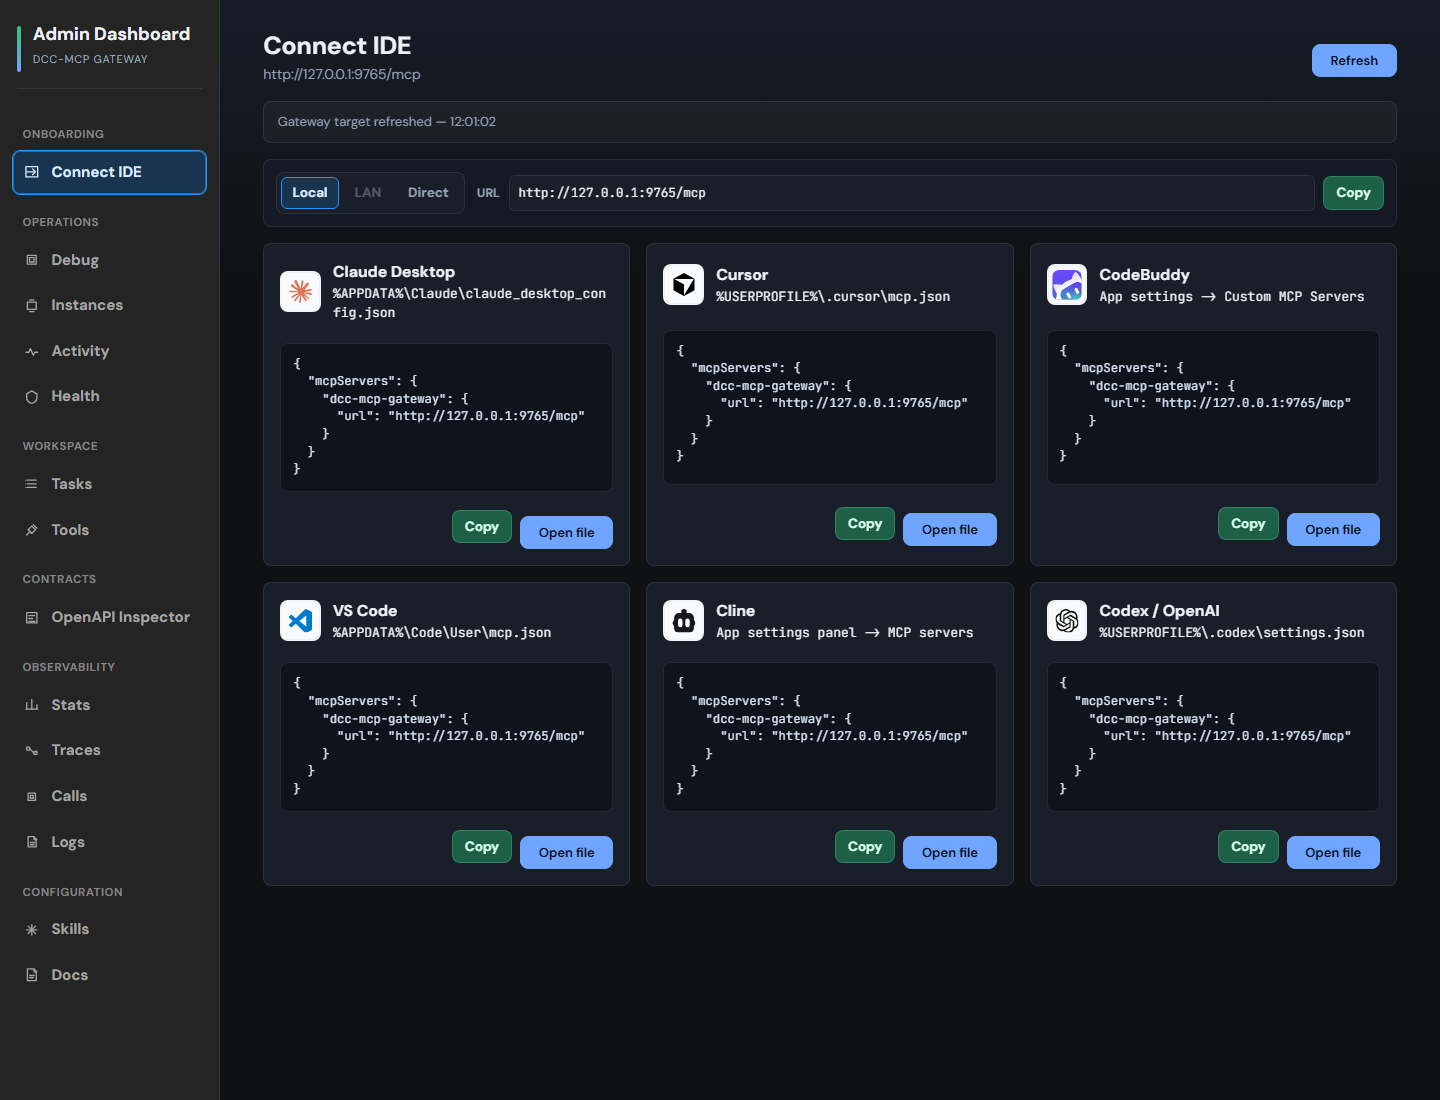
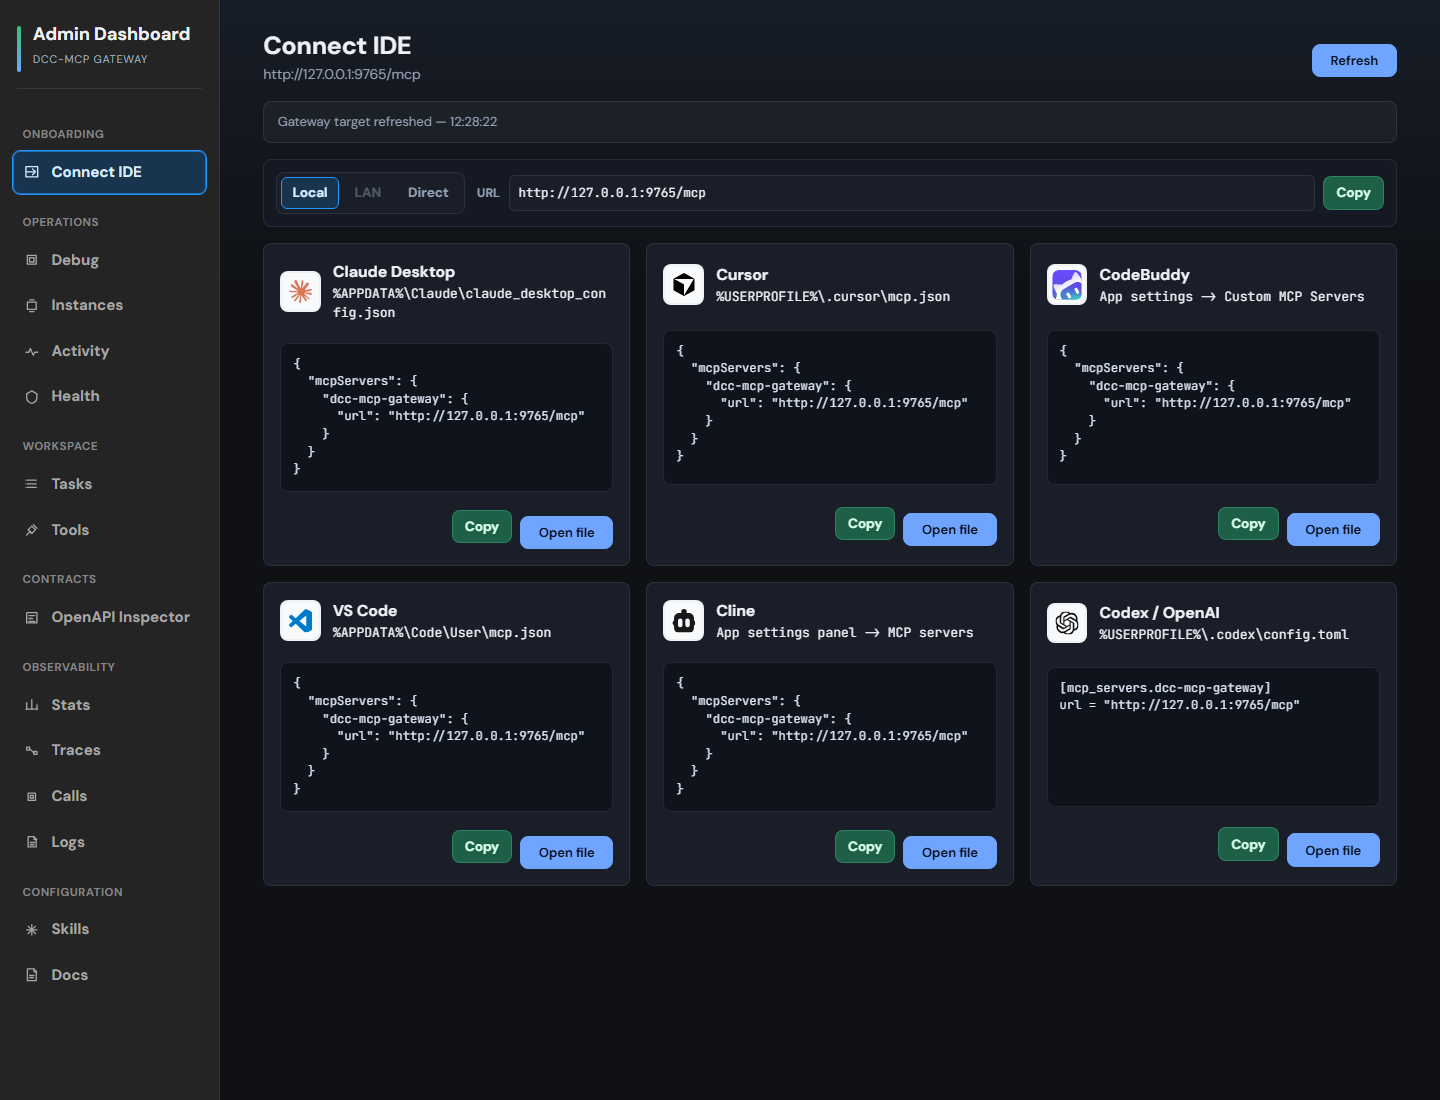
fix: align admin debug docs and codex setup

diff --git a/admin-ui/src/App.tsx b/admin-ui/src/App.tsx
@@ -379,7 +379,7 @@ type IdeTarget = {
   label: string;
   configPath: string | Record<ClientPlatform, string>;
   icon: string;
-  build: (url: string) => unknown;
+  build: (url: string) => string;
 };
 
 function normalizeLogRow(raw: unknown): LogRow {
@@ -552,11 +552,16 @@ const ADMIN_FETCH_TIMEOUT_MS = 25_000;
 const DEFAULT_LOCAL_GATEWAY_PORT = '9765';
 const OPENAPI_METHODS = new Set(['get', 'put', 'post', 'delete', 'patch', 'options', 'head', 'trace']);
 const IDE_SERVER_NAME = 'dcc-mcp-gateway';
-const buildMcpServersConfig = (url: string) => ({
+const buildMcpServersConfig = (url: string) => JSON.stringify({
   mcpServers: {
     [IDE_SERVER_NAME]: { url },
   },
-});
+}, null, 2);
+const tomlString = (value: string) => JSON.stringify(value);
+const buildCodexConfig = (url: string) => [
+  `[mcp_servers.${IDE_SERVER_NAME}]`,
+  `url = ${tomlString(url)}`,
+].join('\n');
 const IDE_TARGETS: IdeTarget[] = [
   {
     id: 'claude',
@@ -609,12 +614,12 @@ const IDE_TARGETS: IdeTarget[] = [
     id: 'codex',
     label: 'Codex / OpenAI',
     configPath: {
-      windows: '%USERPROFILE%\\.codex\\settings.json',
-      macos: '~/.codex/settings.json',
-      linux: '~/.codex/settings.json',
+      windows: '%USERPROFILE%\\.codex\\config.toml',
+      macos: '~/.codex/config.toml',
+      linux: '~/.codex/config.toml',
     },
     icon: openaiIcon,
-    build: buildMcpServersConfig,
+    build: buildCodexConfig,
   },
 ];
 const PANELS: { id: Panel; label: string; group: string }[] = [
@@ -871,7 +876,7 @@ function configPathForTarget(target: IdeTarget, platform: ClientPlatform): strin
 }
 
 function ideConfigText(target: IdeTarget, url: string): string {
-  return JSON.stringify(target.build(url), null, 2);
+  return target.build(url);
 }
 
 function configPathFileUrl(path: string): string | null {

diff --git a/admin-ui/tests/admin.spec.ts b/admin-ui/tests/admin.spec.ts
@@ -351,6 +351,10 @@ test.describe('Admin Page', () => {
     await expect(page.locator('.setup-panel')).not.toContainText('http://127.0.0.1:3721/mcp');
     await expect(page.locator('.setup-panel img.ide-icon')).toHaveCount(6);
     await expect(page.locator('.setup-panel .ide-config-preview').first()).toContainText('"dcc-mcp-gateway"');
+    const codexCard = page.locator('.setup-panel .ide-card').filter({ hasText: 'Codex / OpenAI' });
+    await expect(codexCard).toContainText('%USERPROFILE%\\.codex\\config.toml');
+    await expect(codexCard.locator('.ide-config-preview')).toContainText('[mcp_servers.dcc-mcp-gateway]');
+    await expect(codexCard.locator('.ide-config-preview')).toContainText('url = "http://127.0.0.1:9765/mcp"');
     await page.locator('.setup-panel .ide-card').first().getByRole('button', { name: 'Copy' }).click();
     await expect(page.locator('.setup-panel')).toContainText('Copied Claude Desktop config');
     await page.getByRole('button', { name: 'Direct' }).click();
@@ -381,7 +385,7 @@ test.describe('Admin Page', () => {
     await expect(setup).toContainText('~/Library/Application Support/Claude/claude_desktop_config.json');
     await expect(setup).toContainText('~/.cursor/mcp.json');
     await expect(setup).toContainText('~/Library/Application Support/Code/User/mcp.json');
-    await expect(setup).toContainText('~/.codex/settings.json');
+    await expect(setup).toContainText('~/.codex/config.toml');
     await expect(setup).not.toContainText('%APPDATA%\\Claude');
   });
 

diff --git a/crates/dcc-mcp-gateway/src/gateway/handlers/debug_openapi.rs b/crates/dcc-mcp-gateway/src/gateway/handlers/debug_openapi.rs
@@ -120,6 +120,12 @@ pub(crate) fn add_gateway_debug_openapi_paths(doc: &mut Value) {
             list_params.clone(),
         ),
         (
+            "/v1/debug/deregistered",
+            "List auto-deregistered instances",
+            "Recently auto-deregistered registry rows retained for forensic debugging.",
+            limit_params.clone(),
+        ),
+        (
             "/v1/debug/stats",
             "Get debug statistics",
             "Aggregated gateway call statistics.",

diff --git a/crates/dcc-mcp-gateway/src/gateway/admin/tests.rs b/crates/dcc-mcp-gateway/src/gateway/admin/tests.rs
@@ -289,6 +289,7 @@ mod admin_tests {
         let (status, doc) = body_json(router, "/v1/openapi.json").await;
         assert_eq!(status, StatusCode::OK);
         assert!(doc["paths"].get("/v1/debug/instances").is_some());
+        assert!(doc["paths"].get("/v1/debug/deregistered").is_some());
     }
 
     #[tokio::test]

diff --git a/crates/dcc-mcp-gateway/src/gateway/handlers/rest_impl.rs b/crates/dcc-mcp-gateway/src/gateway/handlers/rest_impl.rs
@@ -958,6 +958,7 @@ mod tests {
             "/v1/debug/bundles/{request_id}",
             "/v1/debug/issue-reports/{request_id}",
             "/v1/debug/logs",
+            "/v1/debug/deregistered",
             "/v1/debug/stats",
             "/v1/debug/health",
         ] {